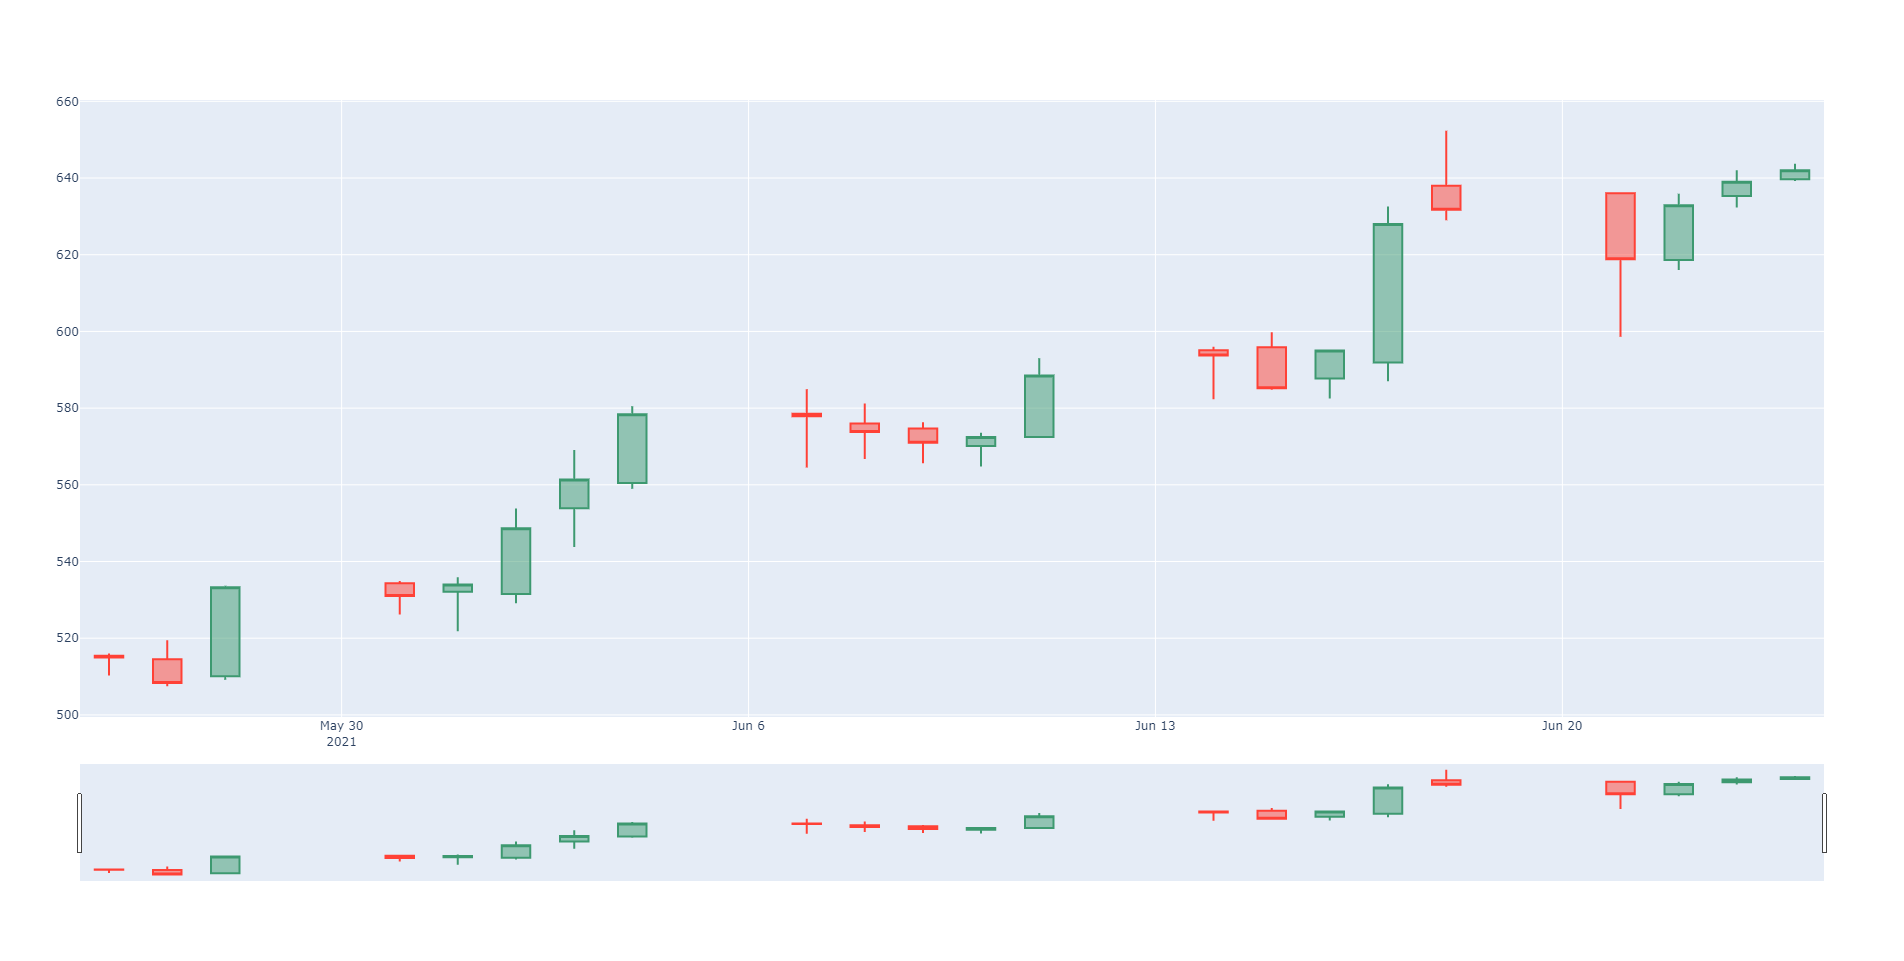
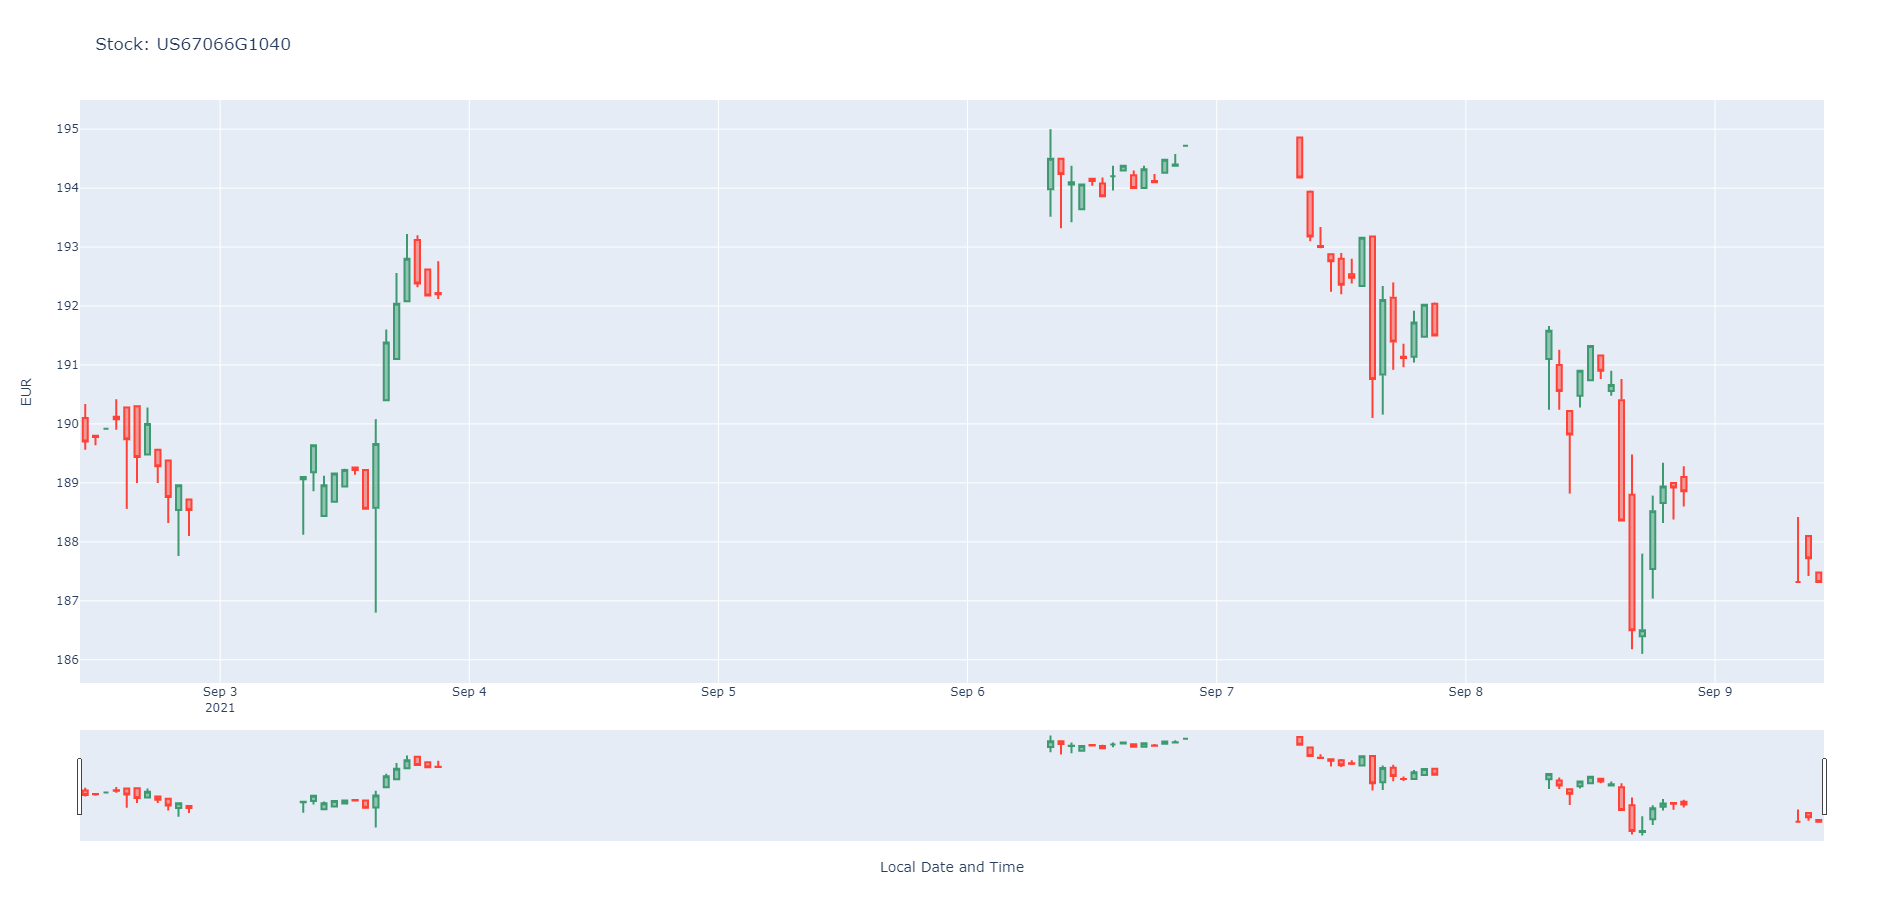
Adapt to new API-Version

diff --git a/plot_candlestick_Interactive.py b/plot_candlestick_Interactive.py
@@ -4,20 +4,37 @@ import json
 import arrow
 import pandas as pd
 import plotly.graph_objects as go
+from datetime import timedelta
+import datetime
+import time
+
+DELTA_OF_31_DAYS = timedelta(days=31)
+DELTA_OF_7_DAYS = timedelta(days=7)
 
 isin = "US67066G1040"  # NVIDIA
 
 mic = "XMUN"
 
-X1 = "d1"  # Specify the type of data you want: m1, h1, or d1
+time_step = "h1"  # Specify the type of data you want: m1, h1, or d1
 
 TOKEN_KEY = "insert_your_token_here"  # please adapt to your token !
 
 authorization = f"Bearer {TOKEN_KEY}"
 
-request = requests.get(f"https://paper.lemon.markets/rest/v1/trading-venues/{mic}/instruments/{isin}/data/ohlc/{X1}/",
-                       headers={"Authorization": authorization})
+datetime_today = datetime.datetime.today()
+start_time = datetime_today - DELTA_OF_7_DAYS
 
+# Do no request old data which are not available
+if start_time < datetime.datetime(2021, 8, 1, 0, 0):
+    start_time = datetime.datetime(2021, 8, 1, 0, 0)
+
+start_time_str = str(int((time.mktime(start_time.timetuple())) * 1000))
+
+end_time = datetime_today
+
+end_time_str = str(int((time.mktime(end_time.timetuple())) * 1000))
+request = requests.get(f"https://paper-data.lemon.markets/v1/ohlc/{time_step}/?mic={mic}&isin={isin}&to={end_time_str}&from={start_time_str}&epoch=True",
+                       headers={"Authorization": authorization})
 print(request)
 parsed = json.loads(request.content)
 print(json.dumps(parsed, indent=4, sort_keys=True))
@@ -27,14 +44,12 @@ column_names = ["Date", "Open", "High", "Low", "Close", "Volume"]
 df = pd.DataFrame(columns=column_names, index=range(length))
 
 for i in range(len(parsed['results'])):
-    date_p = arrow.get(parsed['results'][i]['t']).datetime
-    df.loc[length - 1 - i]["Date"] = date_p
-    df.loc[length - 1 - i]["Open"] = parsed['results'][i]['o']
-    df.loc[length - 1 - i]["High"] = parsed['results'][i]['h']
-    df.loc[length - 1 - i]["Low"] = parsed['results'][i]['l']
-    df.loc[length - 1 - i]["Close"] = parsed['results'][i]['c']
-    df.loc[length - 1 - i]["Volume"] = 0
-
+    df.loc[i]["Date"] = arrow.get(parsed['results'][i]['t']).to('local').datetime
+    df.loc[i]["Open"] = parsed['results'][i]['o']
+    df.loc[i]["High"] = parsed['results'][i]['h']
+    df.loc[i]["Low"] = parsed['results'][i]['l']
+    df.loc[i]["Close"] = parsed['results'][i]['c']
+    df.loc[i]["Volume"] = 0
 df.Date = pd.to_datetime(df.Date)
 df.Open = pd.to_numeric(df.Open)
 df.High = pd.to_numeric(df.High)
@@ -42,6 +57,7 @@ df.Low = pd.to_numeric(df.Low)
 df.Close = pd.to_numeric(df.Close)
 df.Volume = pd.to_numeric(df.Volume)
 df = df.set_index('Date')
+
 print("df =", df)
 print("df.info() =", df.info())
 
@@ -55,6 +71,12 @@ figure = go.Figure(
             close=df["Close"]
         )
     ]
+)
+
+figure.update_layout(
+    title='Stock: ' + isin,
+    yaxis_title='EUR',
+    xaxis_title='Local Date and Time',
 )
 
 # This open a new browser tab !
